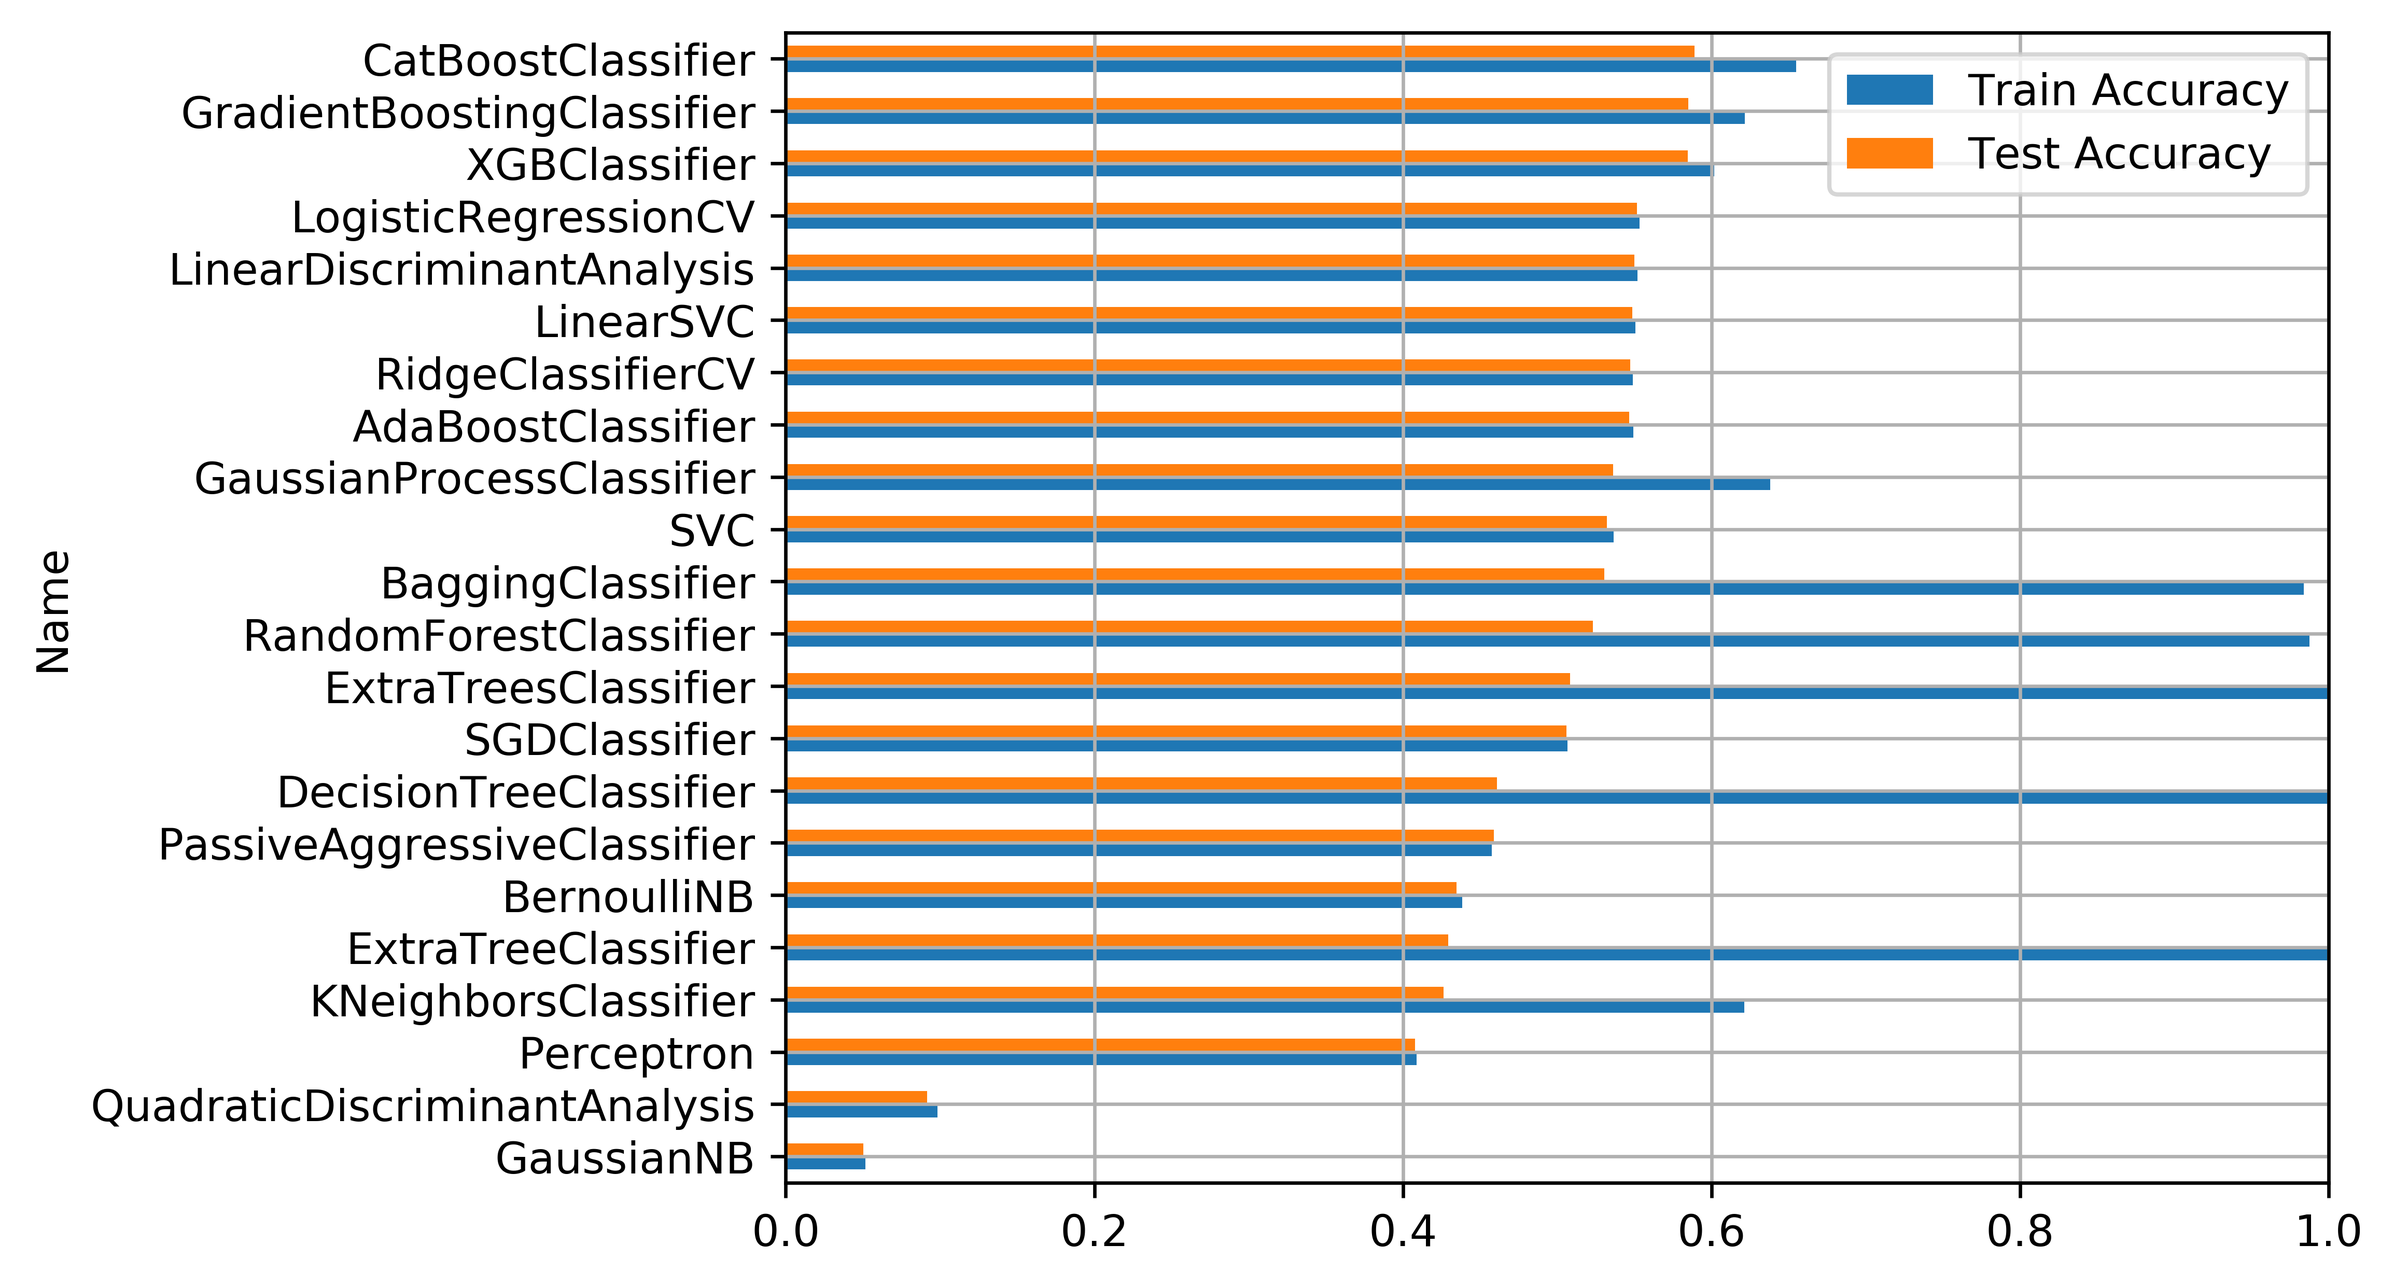
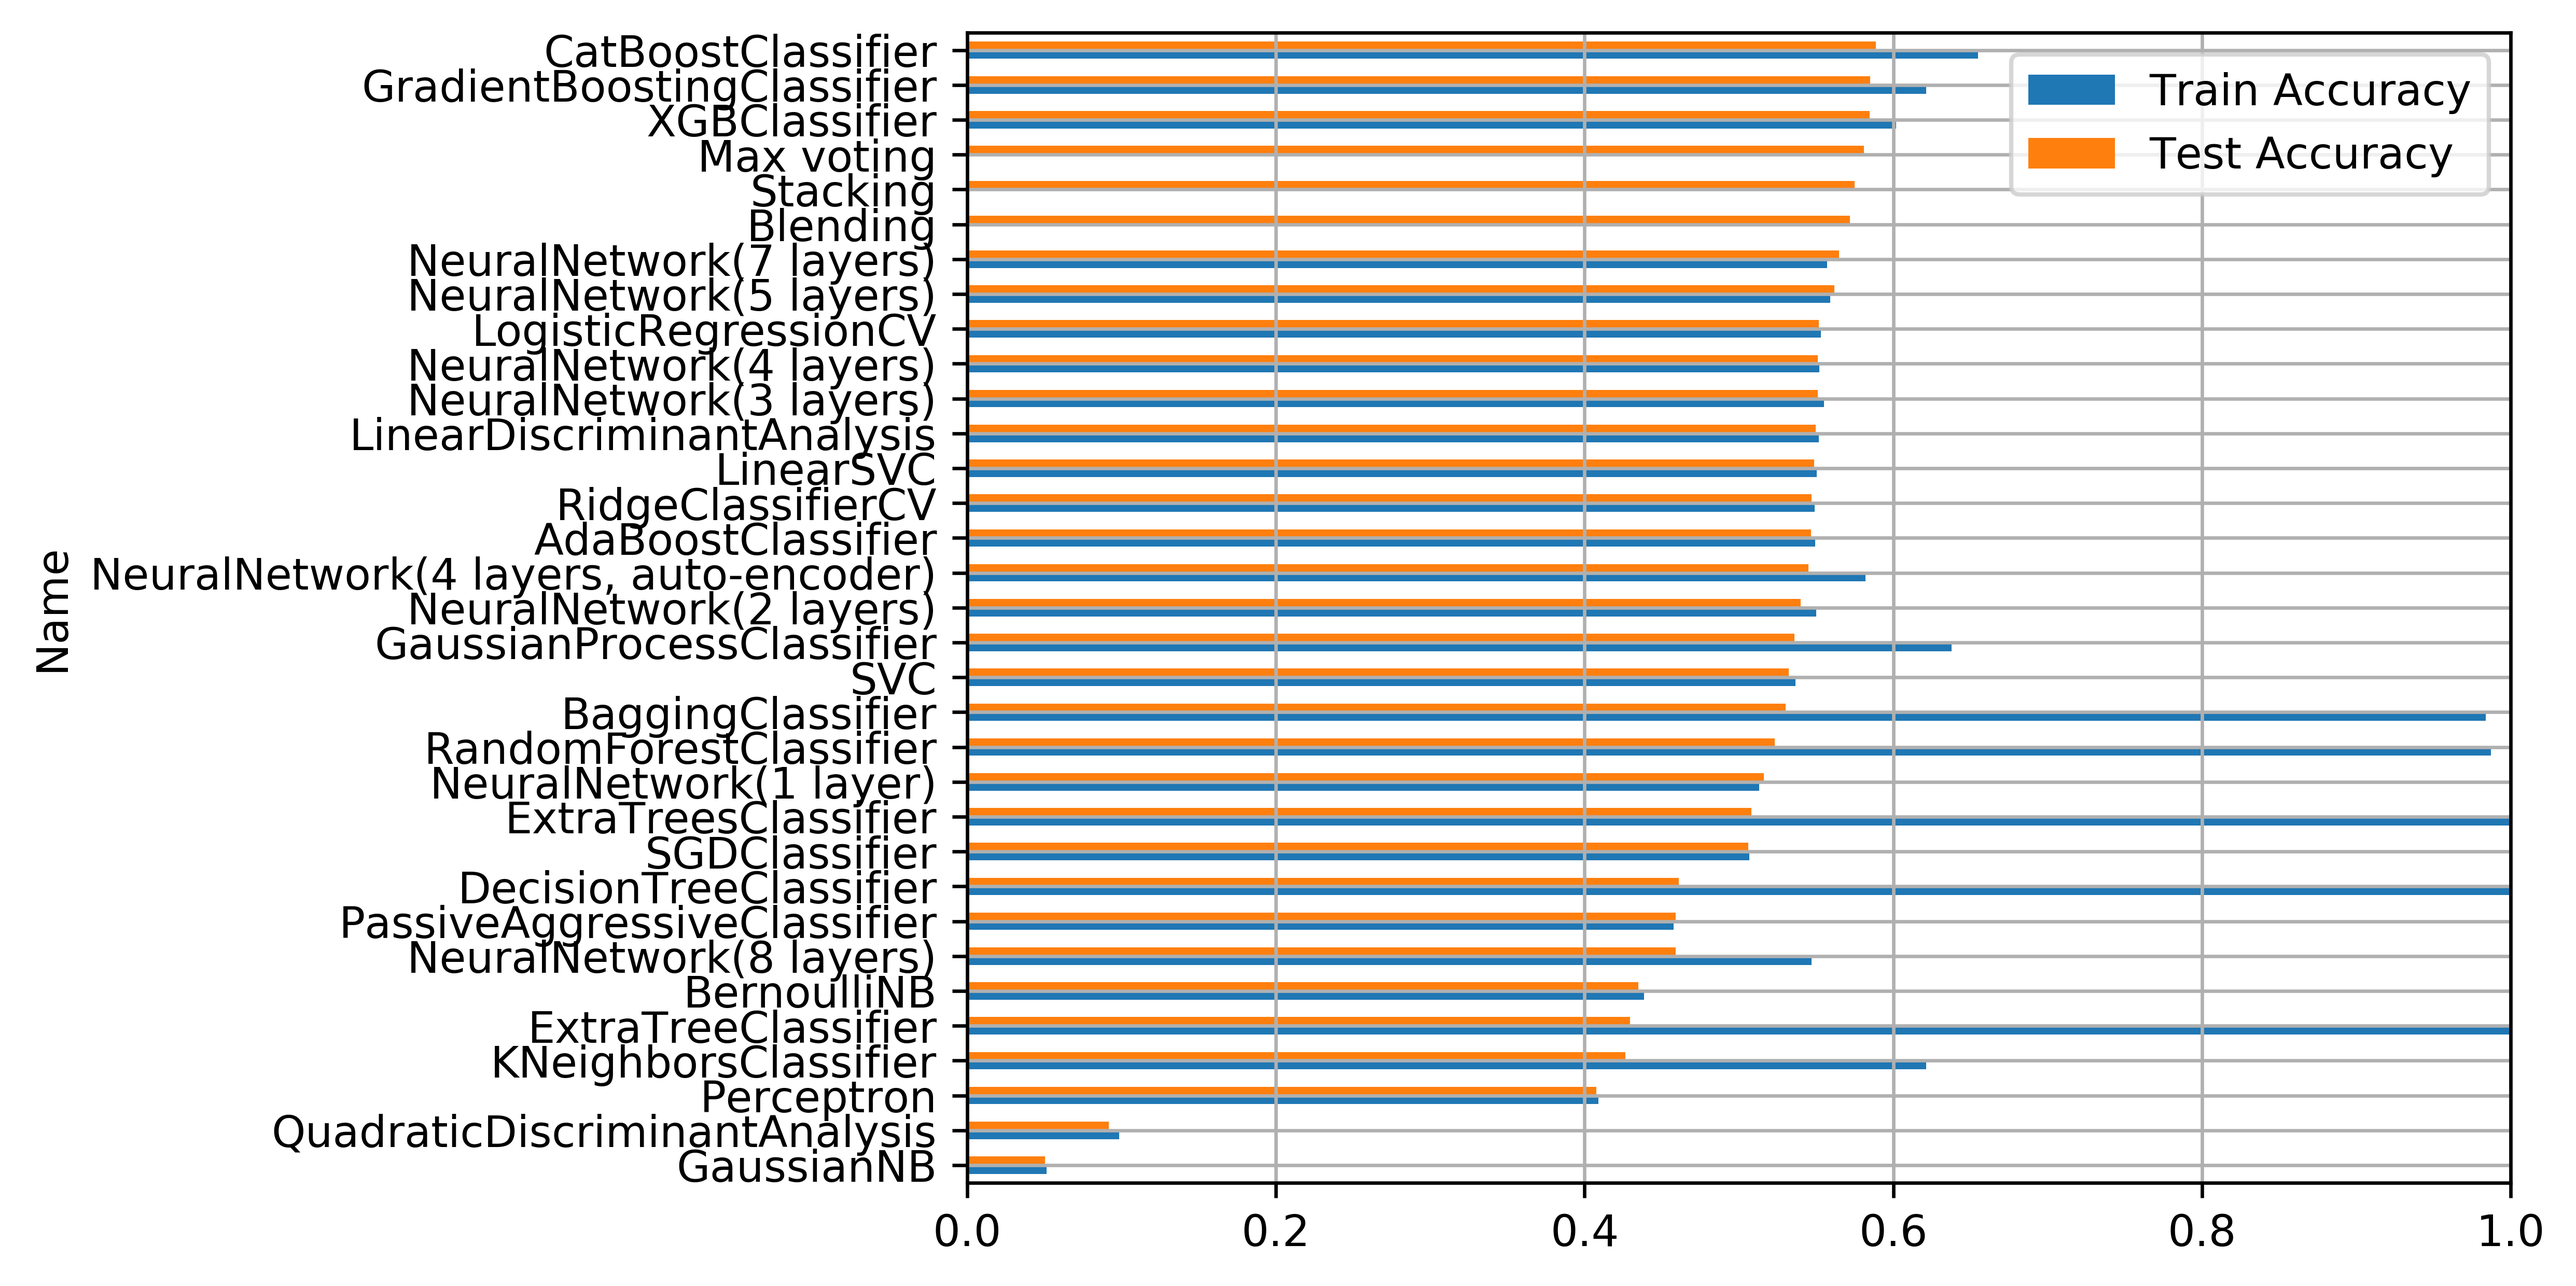
Add other results

diff --git a/visualization/plot.py b/visualization/plot.py
@@ -8,22 +8,32 @@ mla = mla.rename(index=str, columns={'MLA Name': 'Name', 'MLA Test Accuracy Mean
                                      'MLA Train Accuracy Mean': 'Train Accuracy'})
 # mla = mla.iloc[0:0]
 
-# mla = mla.append({'Name': 'NeuralNetwork(1 layer)', 'Test Accuracy': 0.516, 'Train Accuracy': 0.513},
-#                  ignore_index=True)
-# mla = mla.append({'Name': 'NeuralNetwork(2 layers)', 'Test Accuracy': 0.540, 'Train Accuracy': 0.550},
-#                  ignore_index=True)
-# mla = mla.append({'Name': 'NeuralNetwork(3 layers)', 'Test Accuracy': 0.551, 'Train Accuracy': 0.555},
-#                  ignore_index=True)
-# mla = mla.append({'Name': 'NeuralNetwork(4 layers)', 'Test Accuracy': 0.551, 'Train Accuracy': 0.552},
-#                  ignore_index=True)
-# mla = mla.append({'Name': 'NeuralNetwork(5 layers)', 'Test Accuracy': 0.562, 'Train Accuracy': 0.559},
-#                  ignore_index=True)
-# mla = mla.append({'Name': 'NeuralNetwork(7 layers)', 'Test Accuracy': 0.565, 'Train Accuracy': 0.557},
-#                  ignore_index=True)
-# mla = mla.append({'Name': 'NeuralNetwork(8 layers)', 'Test Accuracy': 0.459, 'Train Accuracy': 0.547},
-#                  ignore_index=True)
-# mla = mla.append({'Name': 'NeuralNetwork(4 layers, auto-encoder)', 'Test Accuracy': 0.545, 'Train Accuracy': 0.582},
-#                  ignore_index=True)
+mla = mla.append({'Name': 'NeuralNetwork(1 layer)', 'Test Accuracy': 0.516, 'Train Accuracy': 0.513},
+                 ignore_index=True)
+mla = mla.append({'Name': 'NeuralNetwork(2 layers)', 'Test Accuracy': 0.540, 'Train Accuracy': 0.550},
+                 ignore_index=True)
+mla = mla.append({'Name': 'NeuralNetwork(3 layers)', 'Test Accuracy': 0.551, 'Train Accuracy': 0.555},
+                 ignore_index=True)
+mla = mla.append({'Name': 'NeuralNetwork(4 layers)', 'Test Accuracy': 0.551, 'Train Accuracy': 0.552},
+                 ignore_index=True)
+mla = mla.append({'Name': 'NeuralNetwork(5 layers)', 'Test Accuracy': 0.562, 'Train Accuracy': 0.559},
+                 ignore_index=True)
+mla = mla.append({'Name': 'NeuralNetwork(7 layers)', 'Test Accuracy': 0.565, 'Train Accuracy': 0.557},
+                 ignore_index=True)
+mla = mla.append({'Name': 'NeuralNetwork(8 layers)', 'Test Accuracy': 0.459, 'Train Accuracy': 0.547},
+                 ignore_index=True)
+mla = mla.append({'Name': 'NeuralNetwork(4 layers, auto-encoder)', 'Test Accuracy': 0.545, 'Train Accuracy': 0.582},
+                 ignore_index=True)
+
+mla = mla.append(
+    {'Name': 'Stacking', 'Test Accuracy': 0.575},
+    ignore_index=True)
+mla = mla.append(
+    {'Name': 'Blending', 'Test Accuracy': 0.572},
+    ignore_index=True)
+mla = mla.append(
+    {'Name': 'Max voting', 'Test Accuracy': 0.581},
+    ignore_index=True)
 mla = mla.sort_values(by=['Test Accuracy'])
 print(mla)
 
